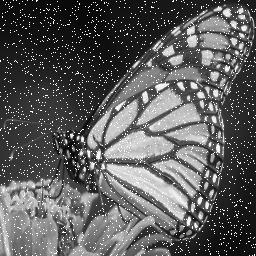
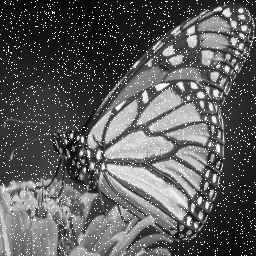
did gaussian filter

diff --git a/homework2_programming/p1_linear_filtering.py b/homework2_programming/p1_linear_filtering.py
@@ -53,6 +53,12 @@ def gauss_kernel_generator(kernel_size: int, spatial_variance: float) -> np.ndar
     # Todo: given variance: spatial_variance and kernel size, you need to create a kernel_sizexkernel_size gaussian kernel
     # Please check out the formula in slide 15 of lecture 6 to learn how to compute the gaussian kernel weight: g[k, l] at each position [k, l].
     kernel_weights = np.zeros((kernel_size, kernel_size))
+    for k in range(-(kernel_size // 2), kernel_size // 2 + 1):
+        for l in range(-(kernel_size // 2), kernel_size // 2 + 1):
+            kernel_weights[k + kernel_size//2, l + kernel_size//2] = (1 / (2 * math.pi * spatial_variance)) * math.exp(-((k**2 + l**2) / (2 * spatial_variance)))
+
+
+
 
     return kernel_weights
  
@@ -77,7 +83,7 @@ if __name__ == "__main__":
     # Gaussian filtering
     kernel_size = 7  
     spatial_var = 15 # sigma_s^2 
-    #gaussian_filter = gauss_kernel_generator(kernel_size, spatial_var)
-    #gaussian_filter_normlized = gaussian_filter / (np.sum(gaussian_filter)+1e-16) # normalization term
-    #im_g = linear_local_filtering(img_noise, gaussian_filter_normlized) # apply the filter to process the image: img_noise
-    #cv2.imwrite('results/im_gaussian.png', im_g)
+    gaussian_filter = gauss_kernel_generator(kernel_size, spatial_var)
+    gaussian_filter_normlized = gaussian_filter / (np.sum(gaussian_filter)+1e-16) # normalization term
+    im_g = linear_local_filtering(img_noise, gaussian_filter_normlized) # apply the filter to process the image: img_noise
+    cv2.imwrite('results/im_gaussian.png', im_g)
